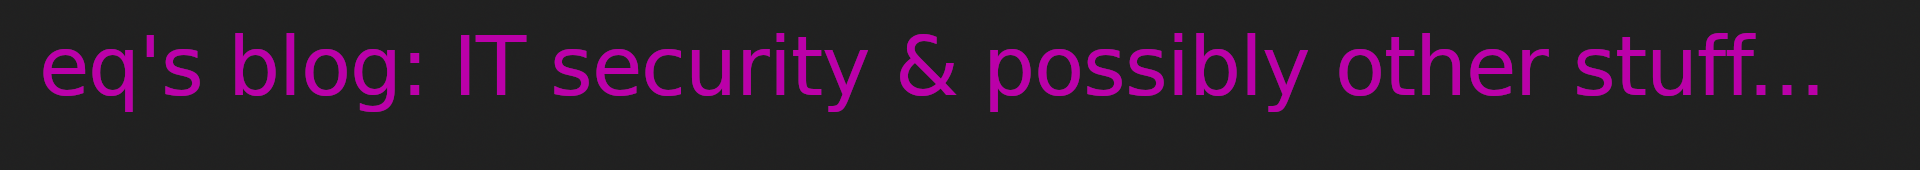
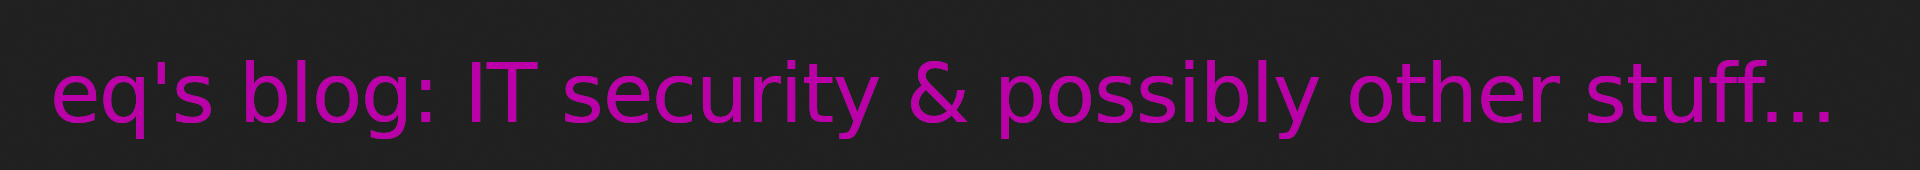
update css

Changed region(s): [[0.0, 0.1765, 0.9688, 0.8235]]

diff --git a/_sass/_base.scss b/_sass/_base.scss
@@ -11,11 +11,11 @@ body {
 }
 a {
 	text-decoration: none;
-	color: #c50;
+	color: #b0a;
 }
 a:hover, a:focus {
 	text-decoration:underline;
-	color: #965;
+	color: #959;
 }
 blockquote {
 	background: #FFF;
@@ -28,7 +28,7 @@ code,pre {
 	font-size: $code-font-size;
 }
 code {
-	color: #6c5;
+	color: #493;
 	background-color: #444;
 	padding: 2px 5px;
 	border-radius: 5px;
@@ -38,7 +38,7 @@ pre {
 	padding: 20px 50px;
 }
 pre, pre code {
-	color: #6c5;
+	color: #493;
 	background-color: #444;
 }
 pre code {
